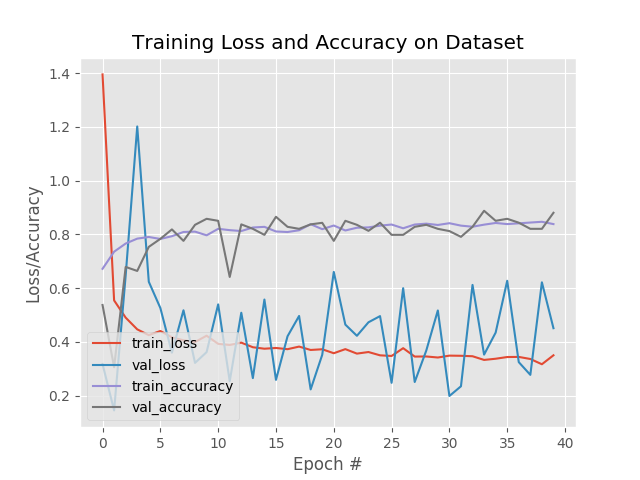
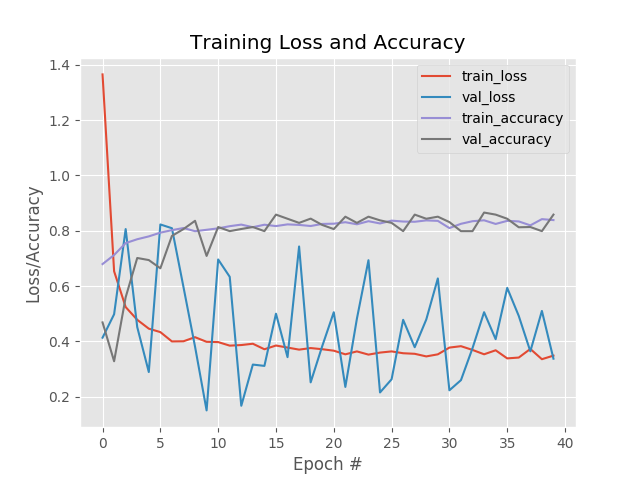
Add comments and README

diff --git a/library/dl_model.py b/library/dl_model.py
@@ -1,8 +1,3 @@
-# STRUCTURE: 
-# - Uses exclusively 3x3 CONV filters, similar to VGGNet
-# - Stacks multiple 3x3 CONV filters on top of each other prior to performing max-pooling (again, similar to VGGNet)
-# - Unlike VGGNet, uses depthwise separable convolution rather than standard convolution layers (https://towardsdatascience.com/a-basic-introduction-to-separable-convolutions-b99ec3102728)
-
 # import the necessary packages
 from keras.models import Sequential
 from keras.layers.normalization import BatchNormalization

diff --git a/train_model.py b/train_model.py
@@ -22,7 +22,7 @@ args = vars(ap.parse_args())
 
 # initialize the number of epochs, initial learning rate, and batch size
 NUM_EPOCHS = 40
-INIT_LEARNRATE = 0.1
+INIT_LEARNRATE = 0.09
 BATCH_SIZE = 32
 
 # calculate the total number of image paths in training, validation, and testing directories

diff --git a/README.md b/README.md
@@ -1,0 +1,24 @@
+# Skin cancer classification using Deep Learning
+A customized Deep Learning model that is capable of classifying malignant and benign skin moles. The model produces result with 81.5% accuracy, 81.2% sensitivity and 81.8% specificity.
+
+## Dataset:
+
+Data is obtained from [Skin Cancer: Malignant vs. Benign](https://www.kaggle.com/fanconic/skin-cancer-malignant-vs-benign#10.jpg).
+
+Sample data:
+
+<img src="https://github.com/minhducubc97/Skin-cancer-detection/tree/master/images/benign.jpg" height="250"/>
+
+*Figure 1: Benign skin mole.*
+<br/><br/>
+
+<img src="https://github.com/minhducubc97/X-Media-Player/tree/master/images/malignant.jpg" height="250"/>
+
+&nbsp;&nbsp;&nbsp;&nbsp;&nbsp;*Figure 2: Malignant skin mole.*
+<br/><br/>
+
+## Architecture of Deep Learning Model:
+
+- Uses exclusively 3x3 CONV filters; places multiple 3x3 CONV filters on top of each other.
+- Uses depthwise separable convolution rather than standard convolution layers (https://towardsdatascience.com/a-basic-introduction-to-separable-convolutions-b99ec3102728)
+- Performs maxpooling.
